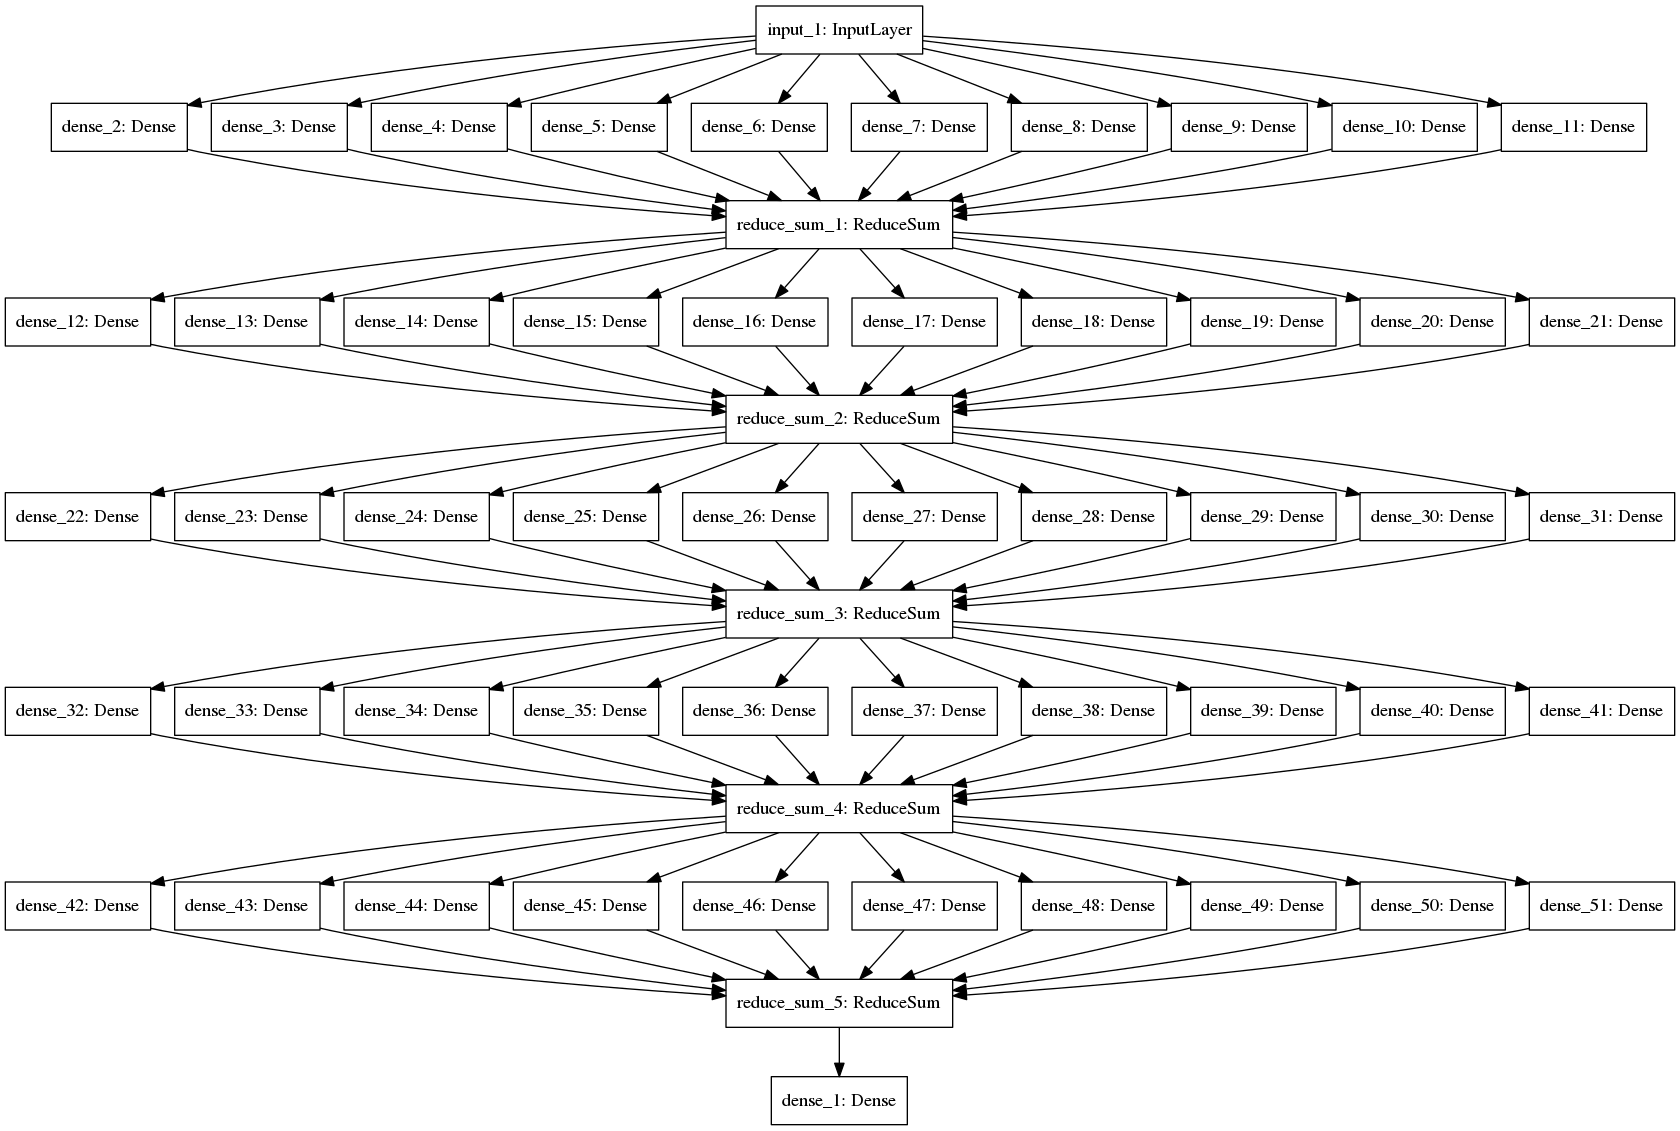
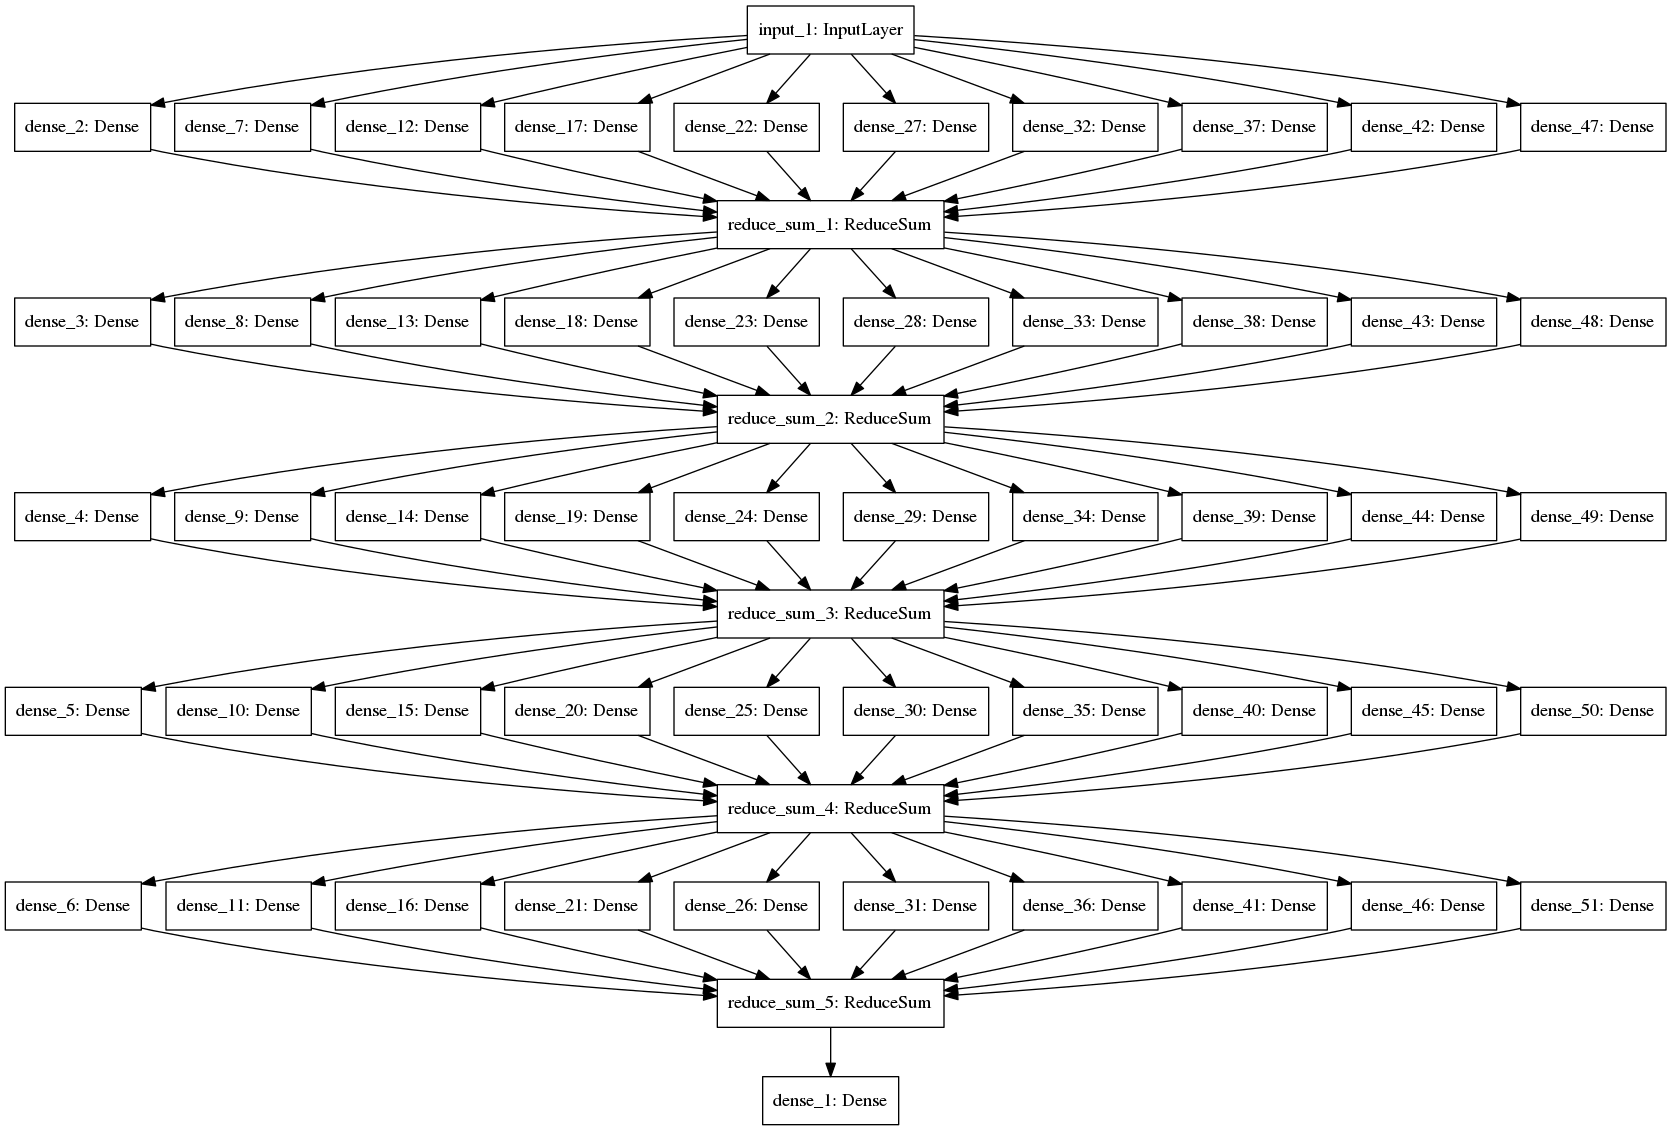
Changed pathnet shape

diff --git a/src/pathnet.py b/src/pathnet.py
@@ -5,27 +5,25 @@ from keras.models import Model
 import numpy as np
 
 class PathNet(object):
-    def __init__(self, num_layers=3, num_modules_per_layer=10,
-                    population_size=64, num_active_paths=3):
-        self.num_layers = num_layers
-        self.num_modules_per_layer = num_modules_per_layer
+    def __init__(self, shape=(3,5), population_size=64, num_active_paths=3,
+                input_size=10, output_size=20, num_neurons_per_module=20):
+        self.num_modules_per_layer, self.num_layers = shape
         self.population_size = population_size
         self.num_active_paths = num_active_paths
-        self.output_size = (10)
-        self.input_layer = Input(shape=(20,))
+        self.input_layer = Input(shape=(input_size,))
+        self.output_size = output_size
         self.output_layer = Dense(self.output_size)
-        self.num_neurons_per_module = 20
-        #self.module_paths = self._calculate_all_paths()
+        self.num_neurons_per_module = num_neurons_per_module
         self.pathnet = self._instantiate_pathnet()
 
     def _instantiate_pathnet(self):
-        layers = []
-        for layer_arg in range(self.num_layers):
-            modules = []
-            for module_arg in range(self.num_modules_per_layer):
-                modules.append(Dense(self.num_neurons_per_module))
-            layers.append(modules)
-        return np.asarray(layers)
+        modules = []
+        for module_arg in range(self.num_modules_per_layer):
+            layers = []
+            for layer_arg in range(self.num_layers):
+                layers.append(Dense(self.num_neurons_per_module))
+            modules.append(layers)
+        return np.asarray(modules)
 
     def compile_path(self, individual):
         """ pathnet should be a numpy array of size
@@ -33,17 +31,16 @@ class PathNet(object):
         """
         #path_mask = individual == True
         #selected_path = pathnet[path_mask]
-        num_layers, num_modules_per_layer = individual.shape
         reduced_sum_modules = []
-        for layer_arg in range(num_layers):
+        for layer_arg in range(self.num_layers):
             layer_paths = []
-            for module_arg in range(num_modules_per_layer):
-                if individual[layer_arg, module_arg]:
+            for module_arg in range(self.num_modules_per_layer):
+                if individual[module_arg, layer_arg]:
                     if layer_arg == 0:
-                        layer_paths.append(self.pathnet[layer_arg, module_arg](
+                        layer_paths.append(self.pathnet[module_arg, layer_arg](
                                                             self.input_layer))
                     else:
-                        layer_paths.append(self.pathnet[layer_arg, module_arg](
+                        layer_paths.append(self.pathnet[module_arg, layer_arg](
                                         reduced_sum_modules[layer_arg - 1]))
             reduced_sum_modules.append(ReduceSum(axis=-1)(layer_paths))
 
@@ -56,8 +53,8 @@ if __name__ == '__main__':
 
     num_layers = 5
     num_modules_per_layer = 10
-    pathnet = PathNet(num_layers, num_modules_per_layer)
-    individual = np.ones(shape=(num_layers, num_modules_per_layer))
+    pathnet = PathNet(shape=(num_modules_per_layer, num_layers))
+    individual = np.ones(shape=(num_modules_per_layer, num_layers))
     model = pathnet.compile_path(individual)
     plot_model(model, to_file='../images/random_pathnet.png')
 
